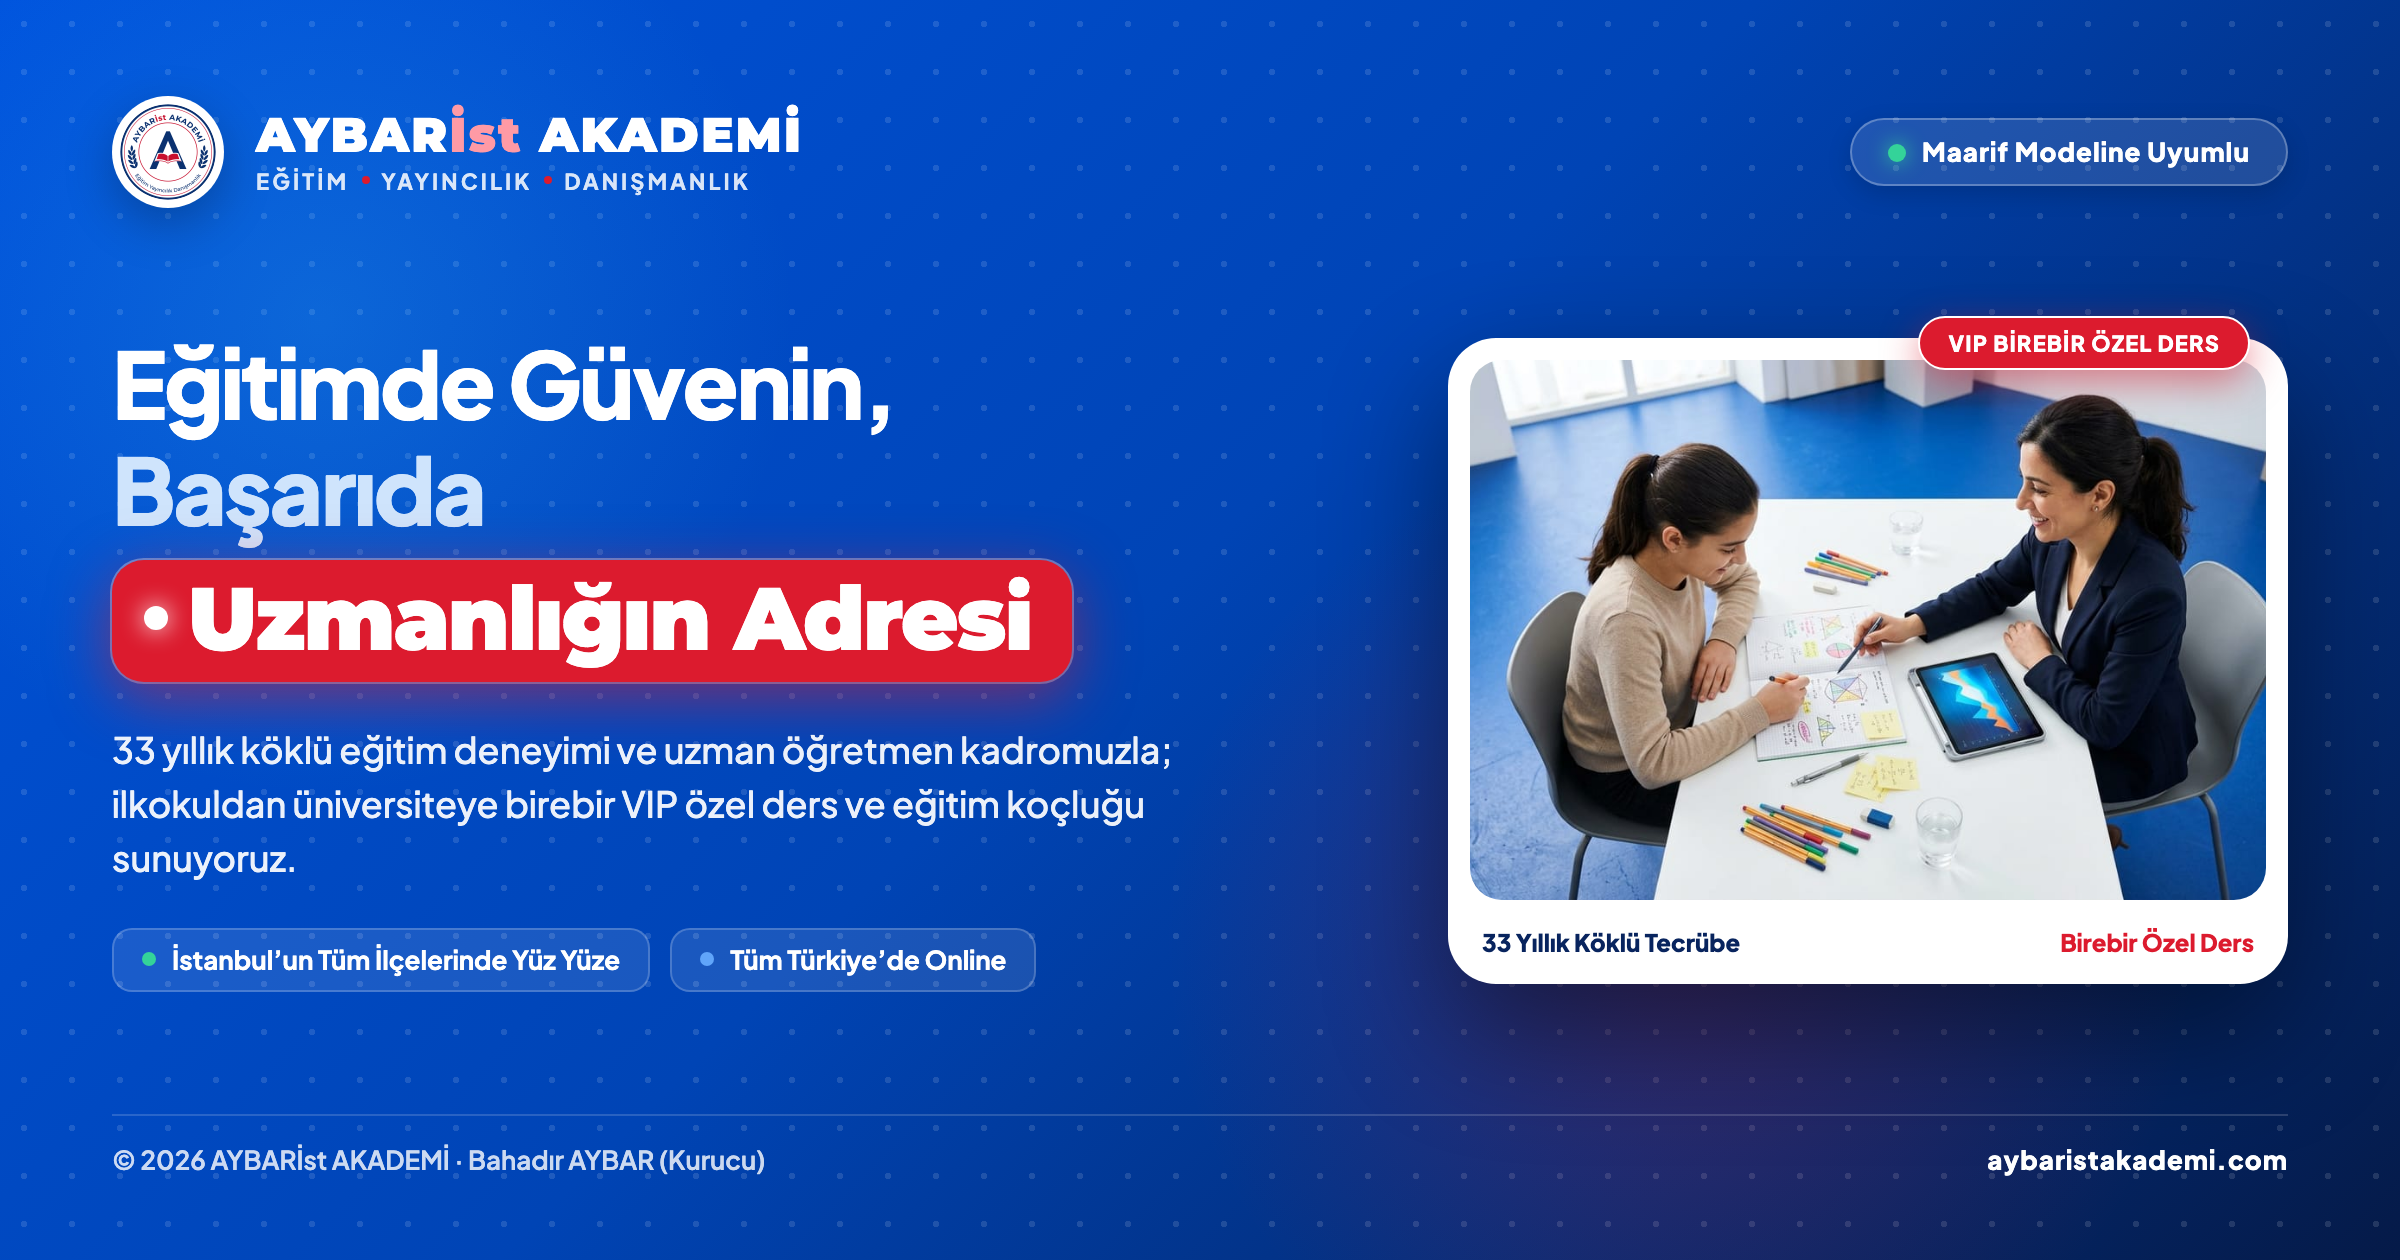
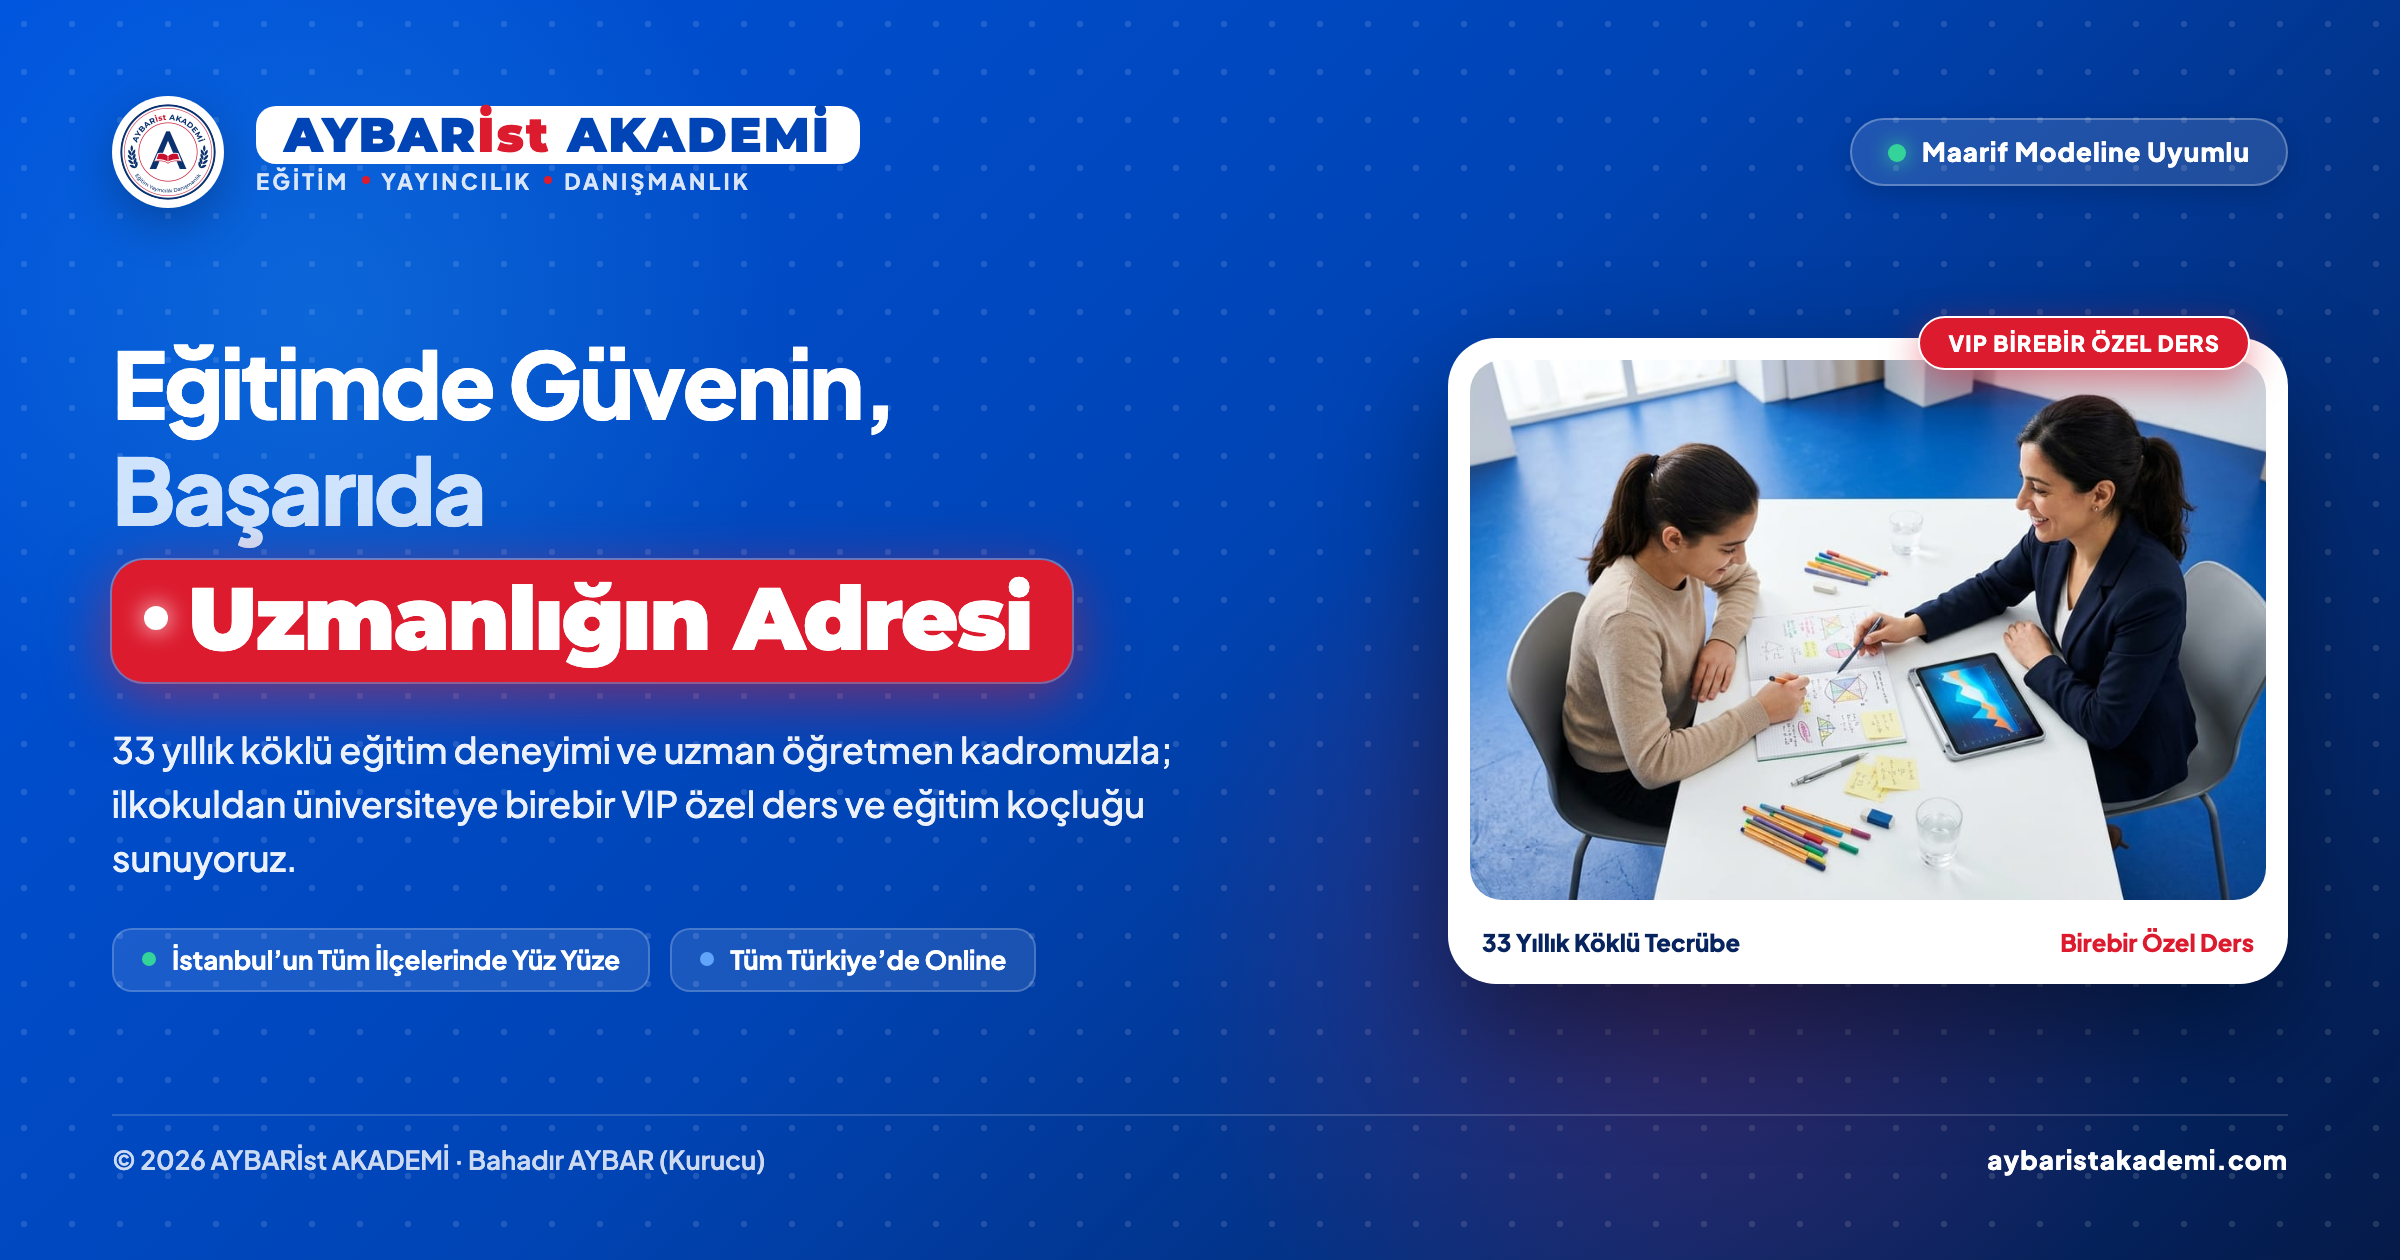
Marka adı koyu zeminde beyaz zemin üzerinde gerçek renklerle

Changed region(s): [[0.0938, 0.0619, 0.375, 0.1548]]

diff --git a/src/components/brand/BrandText.tsx b/src/components/brand/BrandText.tsx
@@ -8,10 +8,10 @@ function paint(text: string): React.ReactNode {
   for (const match of text.matchAll(BRAND)) {
     parts.push(text.slice(last, match.index));
     parts.push(
-      <span key={match.index} className="normal-case">
-        <span className="text-[color:var(--brand-main,#0044b5)]">AYBAR</span>
-        <span className="text-[color:var(--brand-accent,#dc1b2e)]">İst</span>
-        <span className="text-[color:var(--brand-main,#0044b5)]">{match[1]}</span>
+      <span key={match.index} className="brand-name normal-case">
+        <span className="text-[#0044b5]">AYBAR</span>
+        <span className="text-[#dc1b2e]">İst</span>
+        <span className="text-[#0044b5]">{match[1]}</span>
       </span>
     );
     last = match.index + match[0].length;
@@ -31,7 +31,7 @@ function walk(node: React.ReactNode): React.ReactNode {
   return node;
 }
 
-/** Metindeki AYBARİst AKADEMİ adını marka renkleriyle yazar. Koyu zeminde üst öğeye brand-on-dark verilir. */
+/** Metindeki AYBARİst AKADEMİ adını marka renkleriyle yazar. Koyu zeminde üst öğeye brand-on-dark verilir, ad beyaz zeminde kalır. */
 export default function BrandText({ children }: { children: React.ReactNode }) {
   return <>{walk(children)}</>;
 }

diff --git a/src/components/programs/ProgramExplorer.tsx b/src/components/programs/ProgramExplorer.tsx
@@ -298,7 +298,7 @@ export default function ProgramExplorer() {
                   </h4>
 
                   {item.leaderNote && (
-                    <p className="mt-1.5 text-sm sm:text-base font-bold text-cobalt-200">
+                    <p className="brand-on-dark mt-1.5 text-sm sm:text-base font-bold text-cobalt-200">
                       <BrandText>{item.leaderNote}</BrandText>
                     </p>
                   )}

diff --git a/src/app/globals.css b/src/app/globals.css
@@ -2,9 +2,12 @@
 @tailwind components;
 @tailwind utilities;
 
-.brand-on-dark {
-  --brand-main: #ffffff;
-  --brand-accent: #ff9aa5;
+.brand-on-dark .brand-name {
+  background: #fff;
+  padding: 0 0.28em;
+  border-radius: 0.28em;
+  -webkit-box-decoration-break: clone;
+  box-decoration-break: clone;
 }
 
 @layer base {
